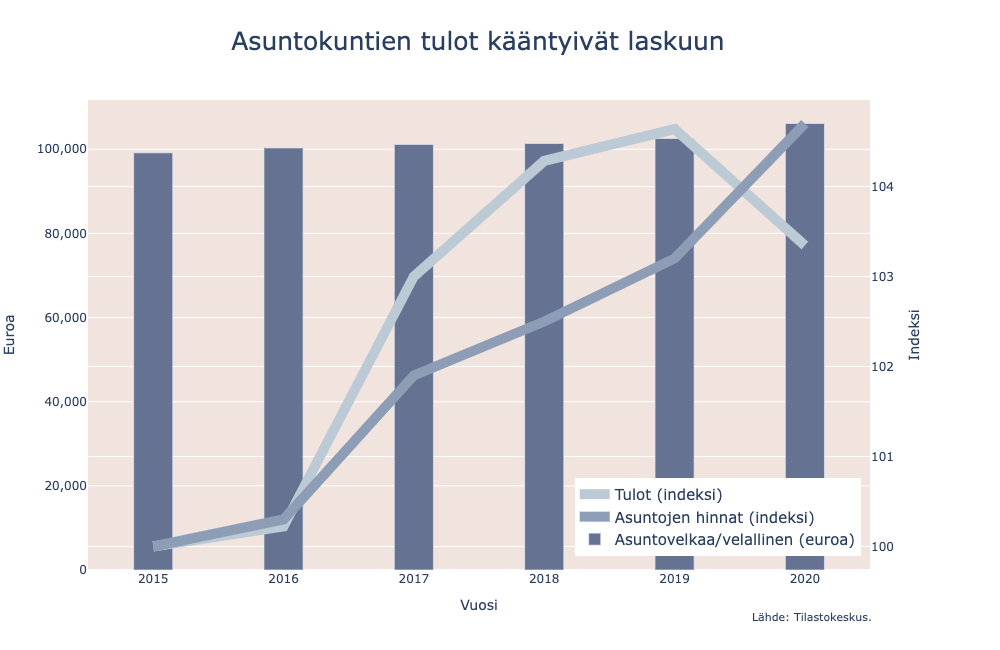
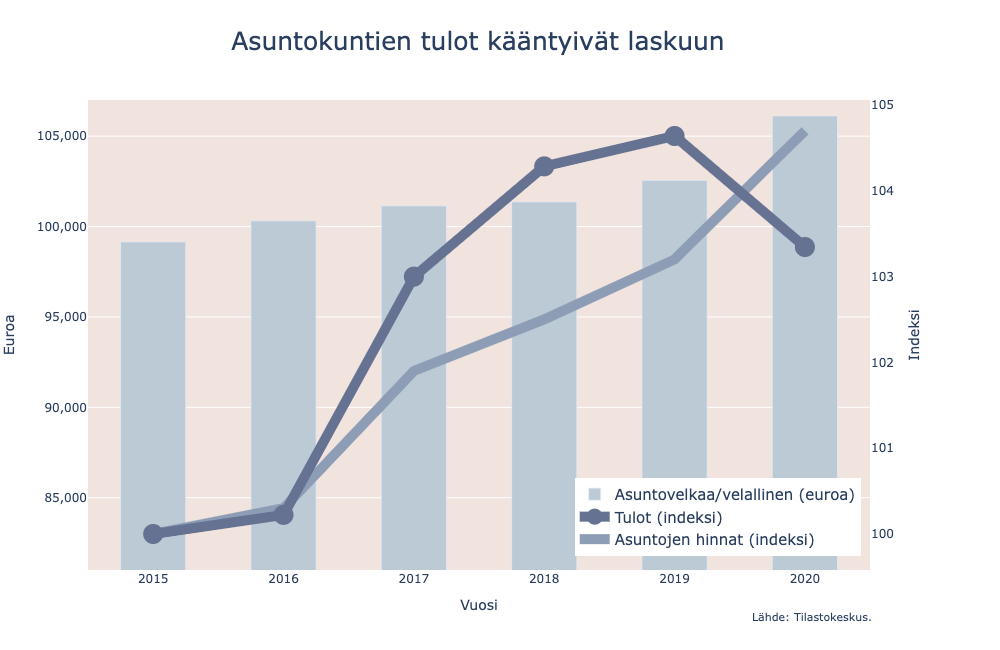
hienosäätöä

diff --git a/asunnot.py b/asunnot.py
@@ -36,15 +36,6 @@ fig = make_subplots(specs=[[{"secondary_y": True}]])
 
 # Lisää tracet
 fig.add_trace(go.Scatter(
-  x=as_tulot["Vuosi"],
-  y=as_tulot["Muutos"],
-  name="Tulot (indeksi)",
-  mode="lines",
-  line={"color": "#bccad6", "width": 10}
-  ),
-  secondary_y=True)
-
-fig.add_trace(go.Scatter(
   x=as_hinnat["Vuosi"],
   y=as_hinnat["Indeksi"],
   name="Asuntojen hinnat (indeksi)",
@@ -53,12 +44,22 @@ fig.add_trace(go.Scatter(
   ),
   secondary_y=True)
 
+fig.add_trace(go.Scatter(
+  x=as_tulot["Vuosi"],
+  y=as_tulot["Muutos"],
+  name="Tulot (indeksi)",
+  mode="lines+markers",
+  line={"color": "#667292", "width": 10},
+  marker={"size": 20}
+  ),
+  secondary_y=True)
+
 fig.add_trace(go.Bar(
   x=as_velat_asuntokunta["Vuosi"],
   y=as_velat_asuntokunta["Velkaa/velallinen"],
   name="Asuntovelkaa/velallinen (euroa)",
-  width=0.3,
-  marker={"color": "#667292"}
+  width=0.5,
+  marker={"color": "#bccad6"}
   ),
   secondary_y=False)
 
@@ -71,12 +72,15 @@ fig.update_layout(
   title={"text":"Asuntokuntien tulot kääntyivät laskuun", "x": 0.478, "font": {"size": 25}},
   xaxis_title="Vuosi",
   legend={"x": 0.585, "y": 0.03, "font": {"size":15}},
-  yaxis={"tickformat": ",.0f"}
+  yaxis={"tickformat": ",.0f"},
+  legend_traceorder="reversed"
   )
 
 # Päivitä y-akseleiden layoutia
 fig.update_yaxes(title_text="Indeksi", secondary_y=True)
 fig.update_yaxes(title_text="Euroa", secondary_y=False)
+fig.update_yaxes(range = [81000, 107000], secondary_y=False)
+fig.update_yaxes(showgrid=False, secondary_y=True)
 
 # Lisää lähde
 fig.add_annotation({
